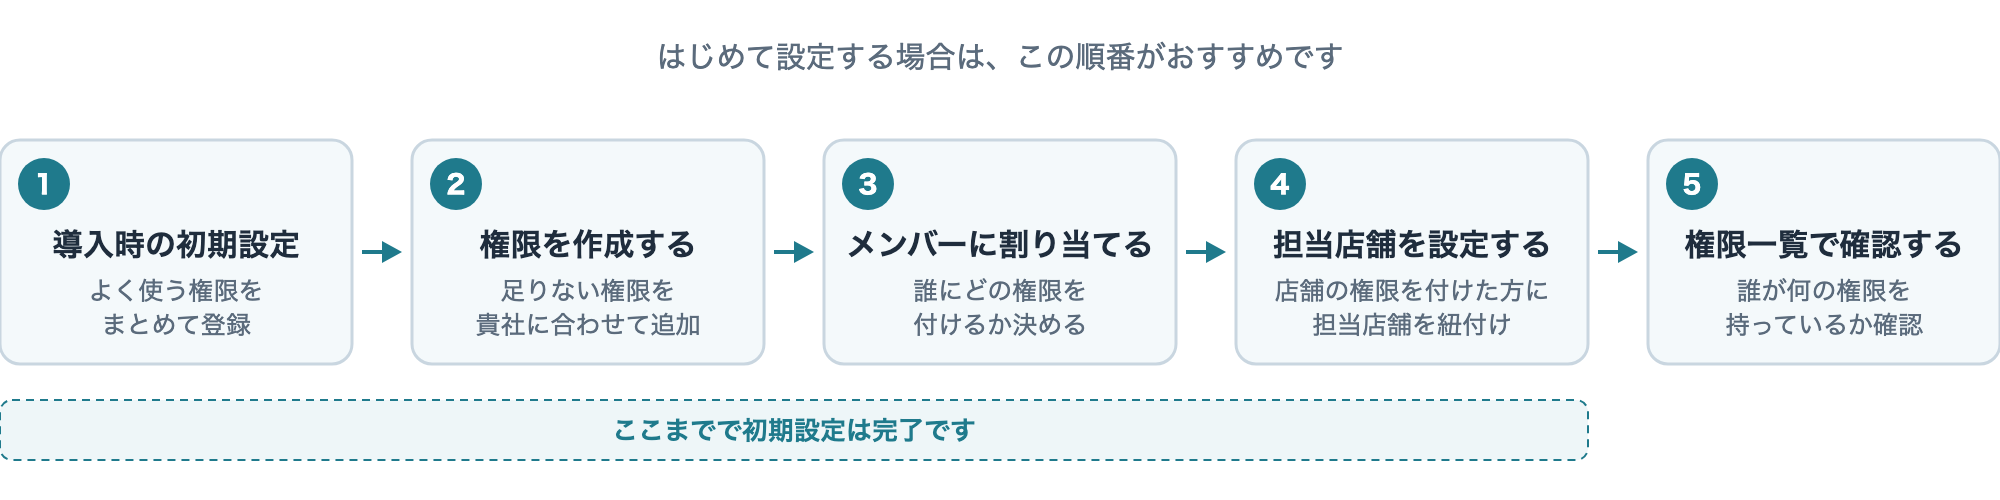
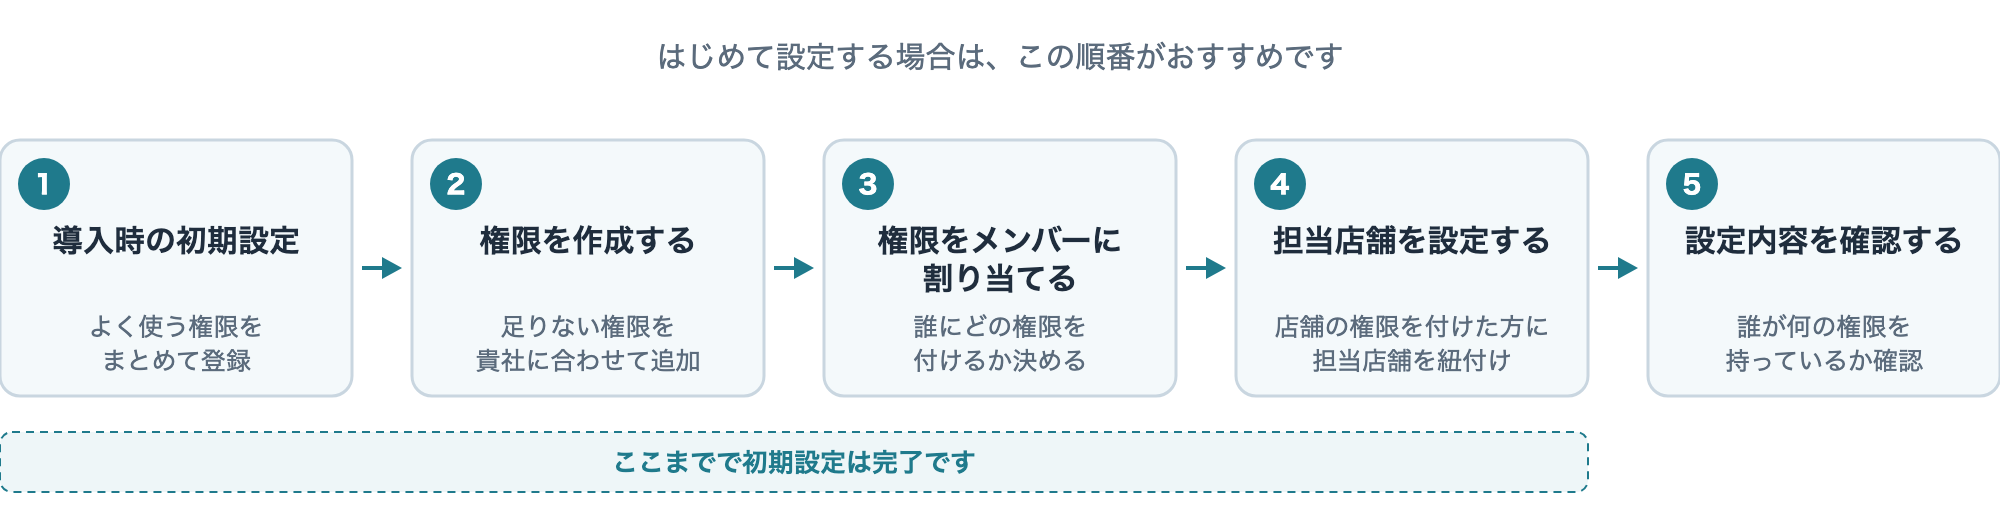
図1・図3を本文および実装と突き合わせて修正
図1
- 見出しが章名とずれていた（メンバーに割り当てる／権限一覧で確認する）。
  本文の章名と完全一致させた（権限をメンバーに割り当てる／設定内容を
  確認する）。図を見た人がその見出しを探して辿れるようにするため
- 2行の見出しに対応できるようレイアウトを調整

図3
- 画面名が「店舗管理」だったが、実装のカテゴリ名は「店舗（管理）」。
  図と本文の両方を実装に合わせた
- 画面数を実装から再検算。共通17／会社4／店舗6 で会社21・店舗23 を確認

図2は前回の修正どおり3名とも1店舗ずつで本文と一致。

diff --git a/20260804_権限設定_ヘルプページ.html b/20260804_権限設定_ヘルプページ.html
@@ -228,7 +228,7 @@ code{background:var(--soft);padding:1px 6px;border-radius:4px;font-size:13px}
 権限を作った直後にそのまま割り当てに進むことも、メンバーの設定中に権限そのものを直したり、新しい権限をその場で作ったりすることもできます。すでに割り当て済みの方には、その旨が一覧の行に表示されます。</p>
 </blockquote>
 <p>はじめて設定する場合は、次の順番がおすすめです。</p>
[2 lines of base64/hex data omitted]
 
 <h2 id="_6">導入時の初期設定</h2>
 <p>はじめて権限設定を開くと、<strong>権限テンプレート</strong>の画面が表示されます。よく使う権限をまとめて登録できます。</p>
@@ -330,7 +330,7 @@ code{background:var(--soft);padding:1px 6px;border-radius:4px;font-size:13px}
 <li><strong>権限名</strong>を入力します（例：経理担当、エリアマネージャー）。</li>
 <li><strong>区分</strong>を選びます。</li>
 </ol>
[2 lines of base64/hex data omitted]
 
 <blockquote>
 <p><strong>区分は先に決めてください</strong>

diff --git a/help/figures.py b/help/figures.py
@@ -23,22 +23,22 @@ def arrow(x1,y,x2,color=ACC):
             f'<path d="M{x2} {y} L{x2-10} {y-5.5} L{x2-10} {y+5.5} Z" fill="{color}"/>')
 
 def fig1():
-    W,H=1000,250
+    W,H=1000,266
     s=head(W,H,"権限設定のご利用の流れ")
     s+=txt(W/2,34,"はじめて設定する場合は、この順番がおすすめです",15,SUB)
     STEP=[("導入時の初期設定","よく使う権限を\nまとめて登録"),("権限を作成する","足りない権限を\n貴社に合わせて追加"),
-          ("メンバーに割り当てる","誰にどの権限を\n付けるか決める"),("担当店舗を設定する","店舗の権限を付けた方に\n担当店舗を紐付け"),
-          ("権限一覧で確認する","誰が何の権限を\n持っているか確認")]
-    bw,gap,y0=176,30,70; x=(W-(bw*5+gap*4))/2
+          ("権限をメンバーに\n割り当てる","誰にどの権限を\n付けるか決める"),("担当店舗を設定する","店舗の権限を付けた方に\n担当店舗を紐付け"),
+          ("設定内容を確認する","誰が何の権限を\n持っているか確認")]
+    bw,gap,y0,bh=176,30,70,128; x=(W-(bw*5+gap*4))/2
     for i,(t,sub) in enumerate(STEP):
         cx=x+i*(bw+gap)
-        s+=rect(cx,y0,bw,112)
+        s+=rect(cx,y0,bw,bh)
         s+=f'<circle cx="{cx+22}" cy="{y0+22}" r="13" fill="{ACC}"/>'+txt(cx+22,y0+27,i+1,13,"#fff","700")
-        s+=txt(cx+bw/2,y0+58,t,15.5,INK,"600")
-        for k,ln in enumerate(sub.split("\n")): s+=txt(cx+bw/2,y0+80+k*17,ln,12.5,SUB)
-        if i<4: s+=arrow(cx+bw+5,y0+56,cx+bw+gap-5)
-    s+=f'<rect x="{x}" y="200" width="{bw*4+gap*3}" height="30" rx="6" fill="#eef6f8" stroke="{ACC}" stroke-width="1" stroke-dasharray="4 3"/>'
-    s+=txt(x+(bw*4+gap*3)/2,220,"ここまでで初期設定は完了です",13,ACC,"600")
+        for k,ln in enumerate(t.split("\n")): s+=txt(cx+bw/2,y0+56+k*19,ln,15.5,INK,"600")
+        for k,ln in enumerate(sub.split("\n")): s+=txt(cx+bw/2,y0+98+k*17,ln,12.5,SUB)
+        if i<4: s+=arrow(cx+bw+5,y0+bh/2,cx+bw+gap-5)
+    s+=f'<rect x="{x}" y="216" width="{bw*4+gap*3}" height="30" rx="6" fill="#eef6f8" stroke="{ACC}" stroke-width="1" stroke-dasharray="4 3"/>'
+    s+=txt(x+(bw*4+gap*3)/2,236,"ここまでで初期設定は完了です",13,ACC,"600")
     return "01_ご利用の流れ",W,H,s+"</svg>"
 
 def fig2():
@@ -59,7 +59,7 @@ def fig3():
     s=head(W,H,"会社と店舗の区分")
     s+=txt(W/2,32,"権限は会社か店舗のどちらかに属します。1つの権限で両方は扱えません",15,SUB)
     s+=f'<line x1="500" y1="52" x2="500" y2="300" stroke="{LINE}" stroke-width="1.5" stroke-dasharray="5 4"/>'
-    for x,kb,t2,sub2,cnt,fs in [(60,"会社","会社の画面（4種類）","会社情報・お支払い・店舗管理・ダウンロード",21,12.5),
+    for x,kb,t2,sub2,cnt,fs in [(60,"会社","会社の画面（4種類）","会社情報・お支払い・店舗（管理）・ダウンロード",21,12.5),
                                 (540,"店舗","店舗の画面（6種類）","発注先&amp;仕入商品・店舗情報・連携設定・費用設定・休業日設定・予算設定",23,11)]:
         cx=x+200
         s+=rect(x,62,400,74,"#f7f7f9",LINE)+txt(cx,92,"共通の画面（17種類）",16,INK,"600")+txt(cx,116,"ダッシュボード・売上分析・従業員管理 など",12.5,SUB)
